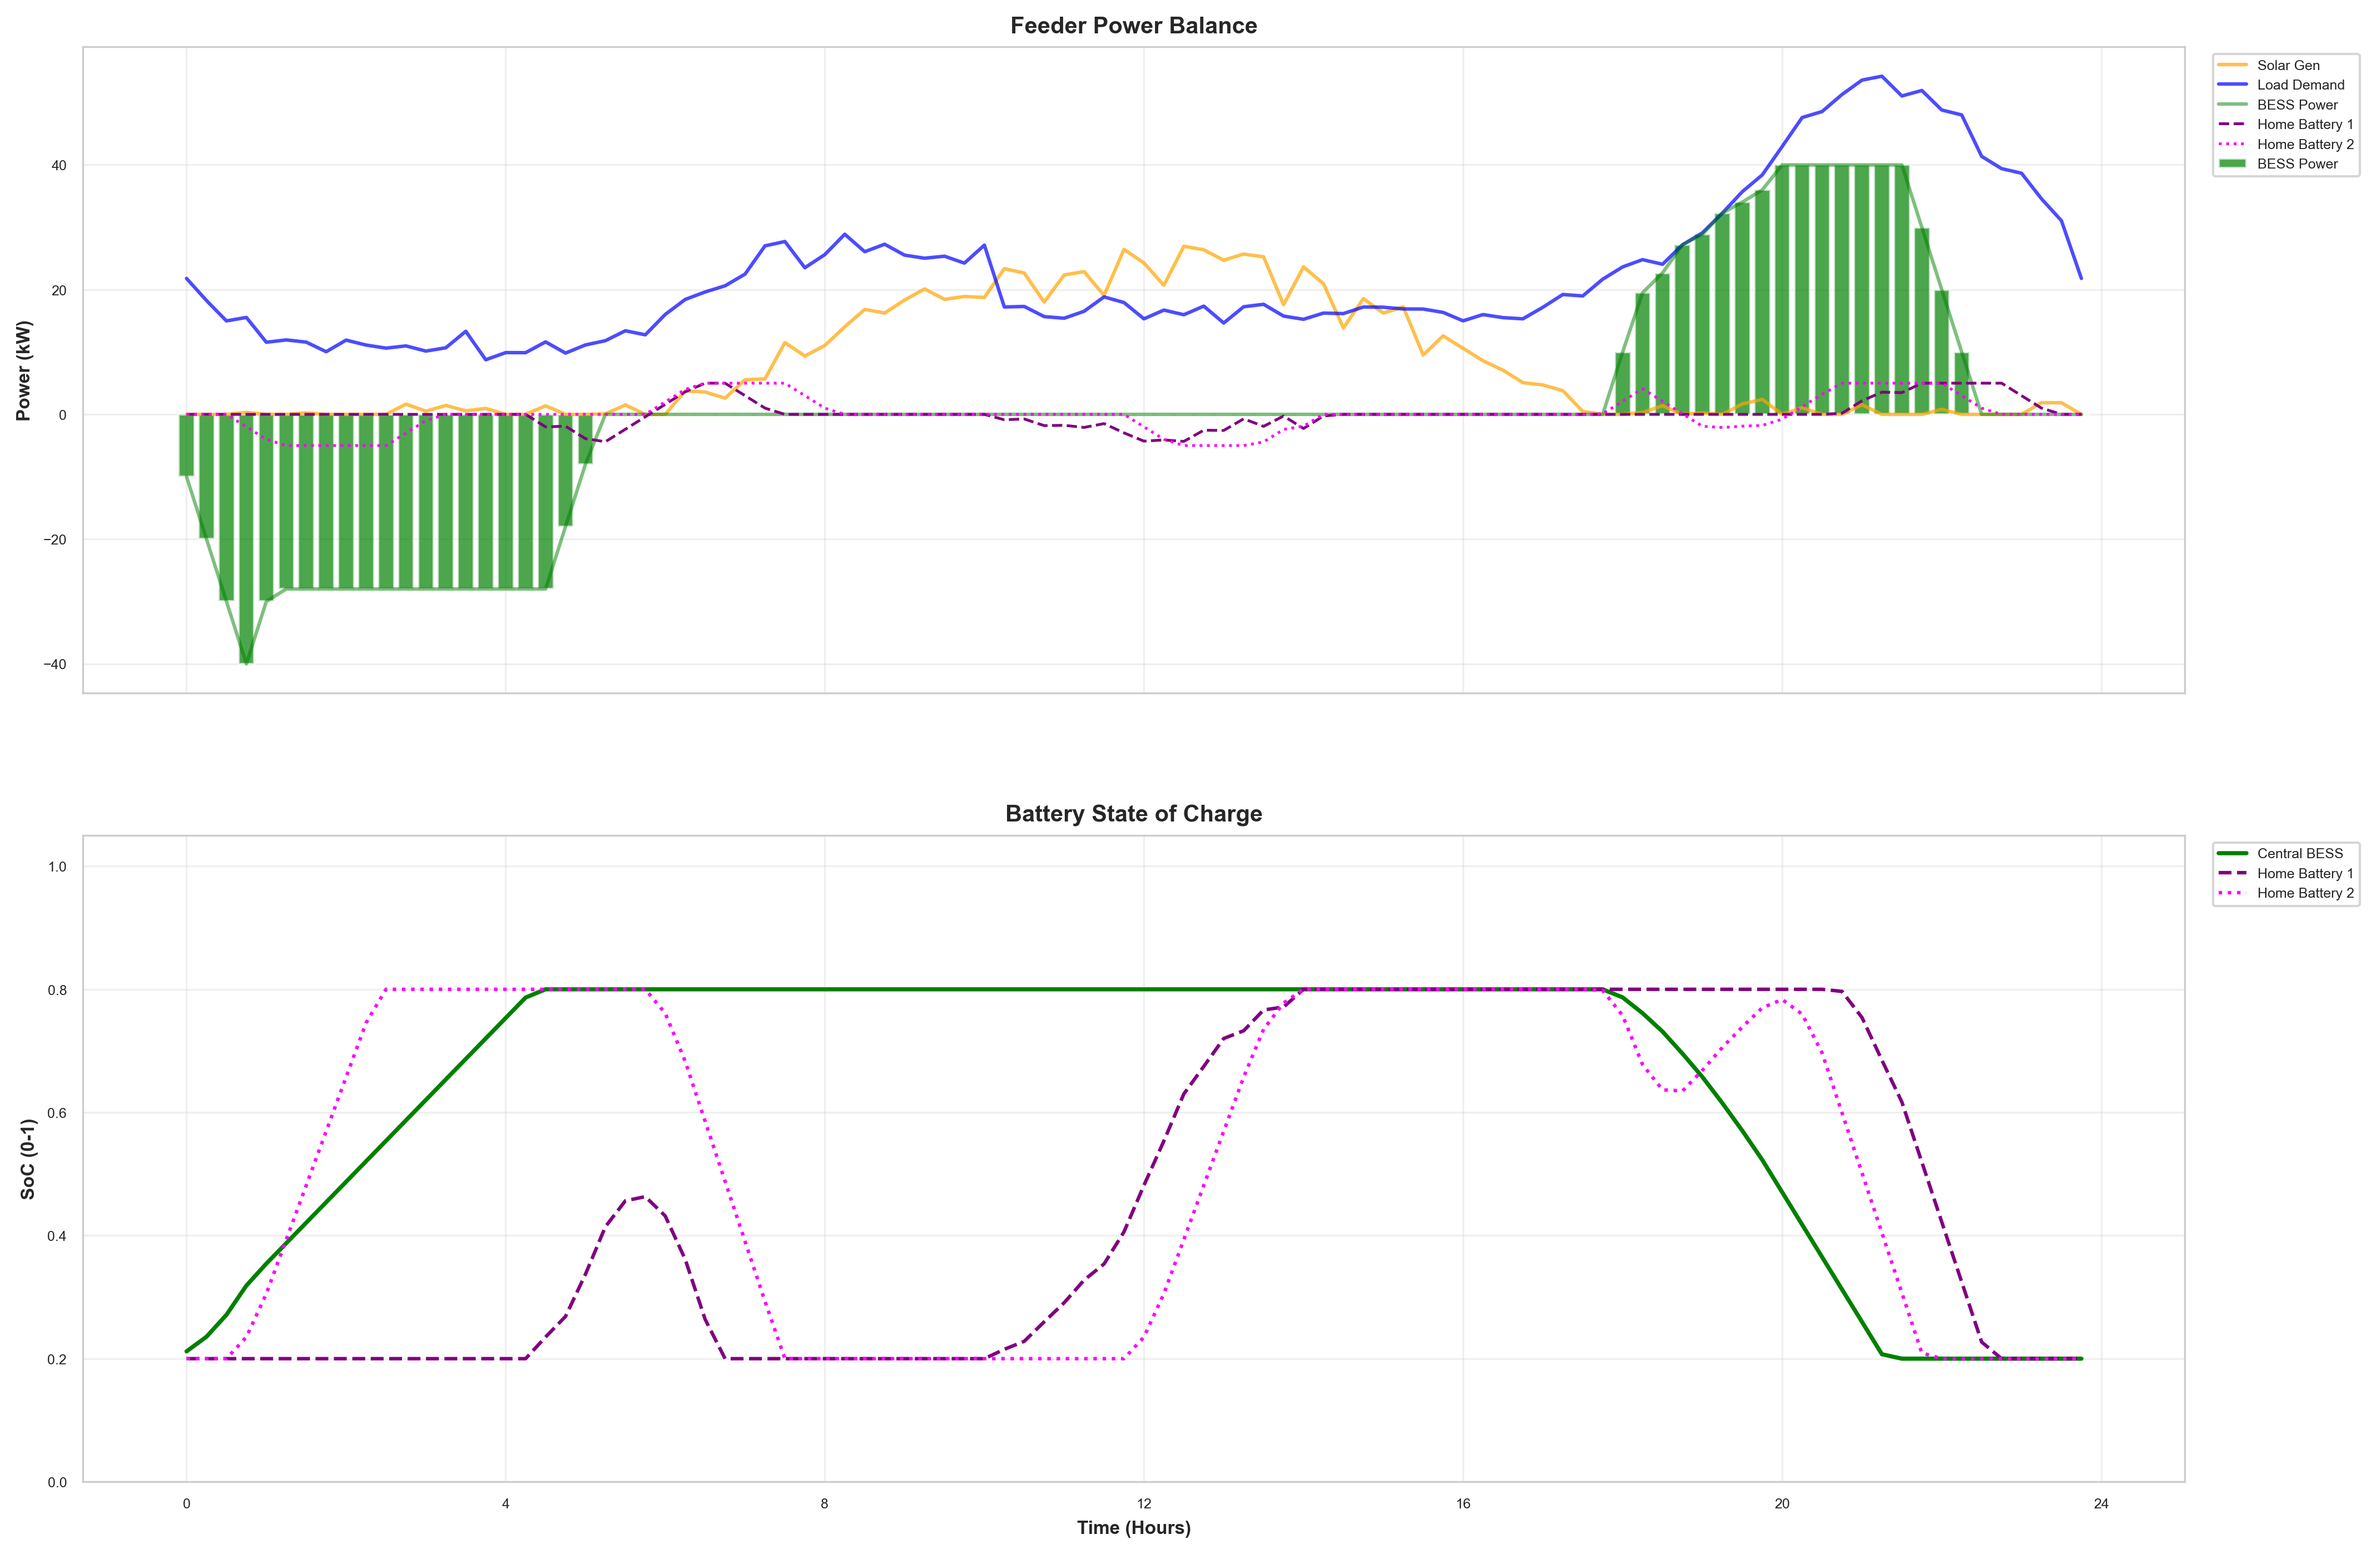
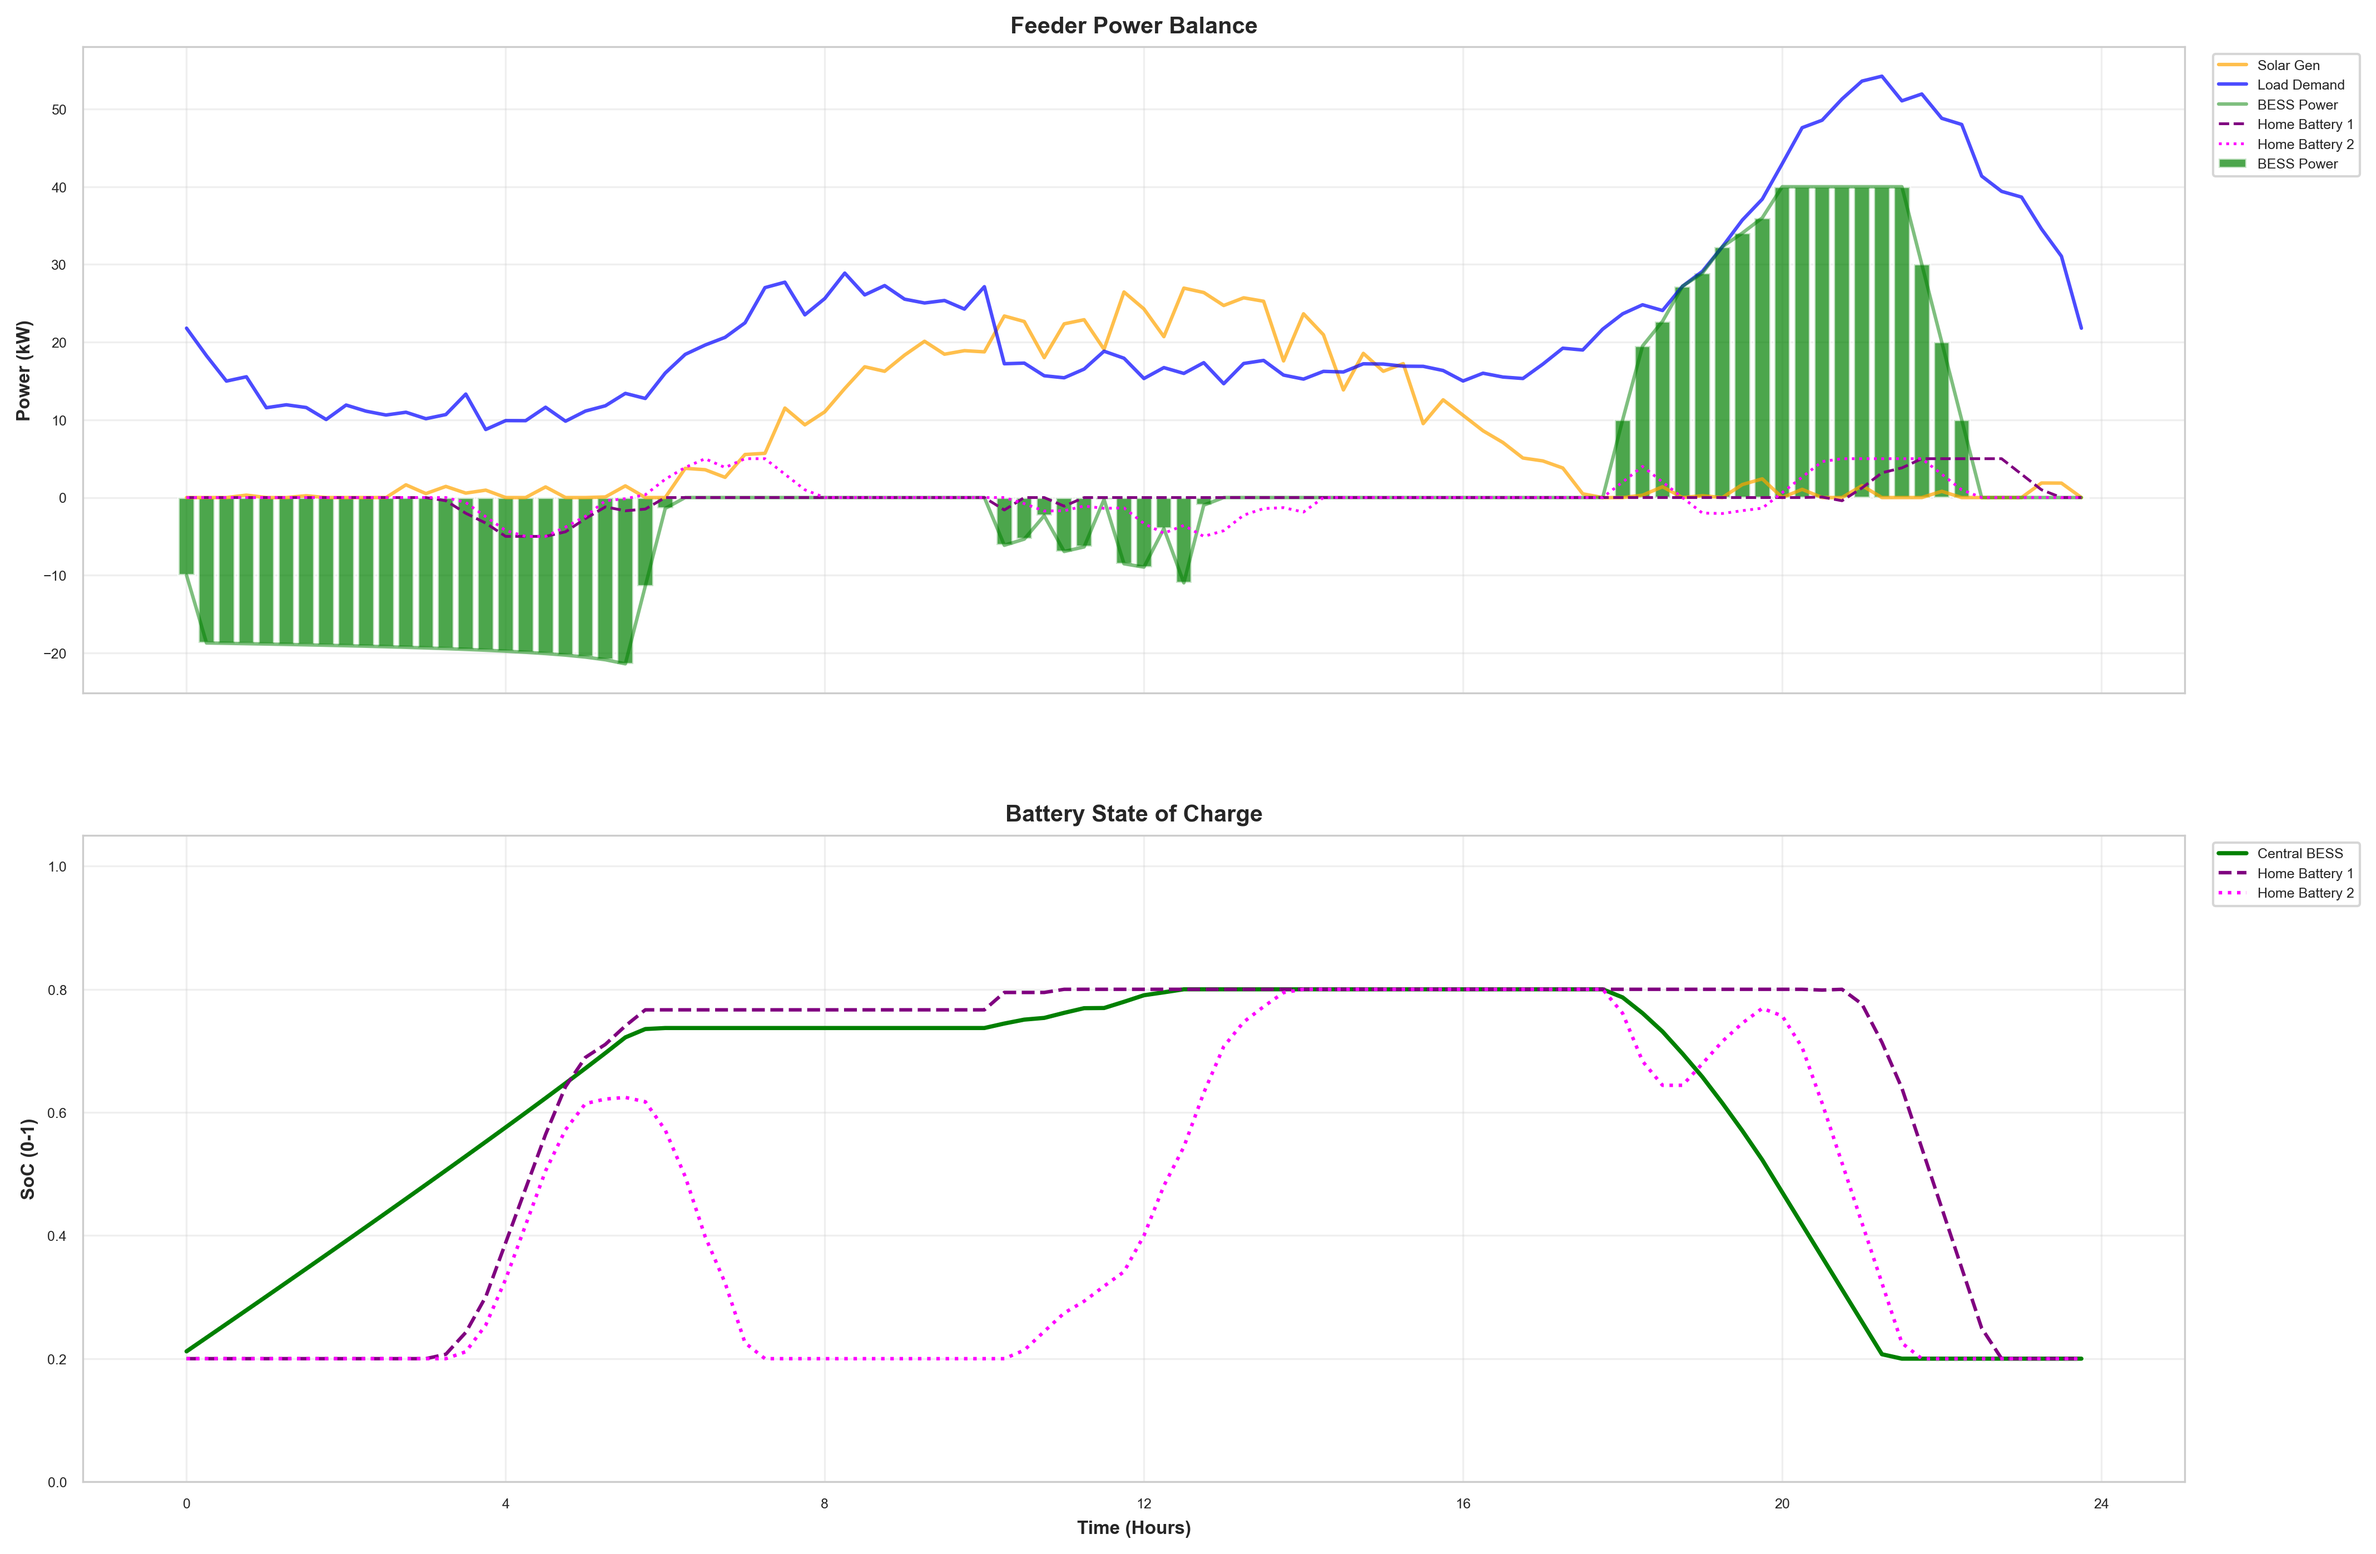
time change

diff --git a/RL_agent/vpp_env.py b/RL_agent/vpp_env.py
@@ -396,13 +396,15 @@ class UrbanVPPEnv(gym.Env):
                 desired_power = 0.0  # Prevent charging when battery full
 
             # --- CONSTRAINT 2: BESS CHARGING STRATEGY ---
-            # BESS prefers solar but can use cheap off-peak grid power (11pm-6am)
+            # BESS prefers solar but can use cheap off-peak grid power (12am-6am, 21 LKR)
             # to ensure sufficient charge for peak hour discharge
-            # NOTE: Charging blocked between 11pm-12am (hour 23-24)
             if is_bess and desired_power < 0:  # BESS trying to charge
-                # Allow charging if: (1) solar surplus available, OR (2) cheap off-peak hours (12am-6am)
-                if net_solar_surplus <= 0 and (6 <= hour or hour >= 23):
-                    desired_power = 0.0  # Block grid charging outside off-peak hours and during 11pm-12am
+                # Always block charging during 11pm-12am transition
+                if 23 <= hour:
+                    desired_power = 0.0
+                # Block grid charging outside off-peak if solar is insufficient
+                elif net_solar_surplus <= 0 and hour >= 6:
+                    desired_power = 0.0  # Only allow off-peak (0am-6am) when no solar
             
             # --- CONSTRAINT 3: Home Battery Daytime Solar Charging ---
             # Home batteries prefer solar during daytime but can use grid at night
